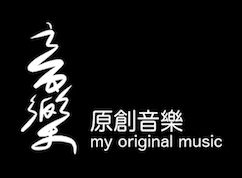
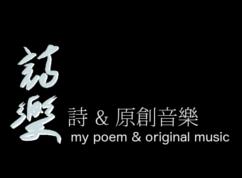
update artworks

Changed region(s): [[0.0289, 0.1124, 0.9545, 0.8708]]

diff --git a/en/artworks.html b/en/artworks.html
@@ -42,8 +42,10 @@
 <h2>Original Music Creating</h2>
 <p class="section">
 <a href="https://www.youtube.com/channel/UCgWz8SBImzRUd5XeOlw0VJg" target="_blank"><img src="../images/original-music.png" class="artworks1" /></a><br>
-I'm an independent singer songwriter, <br>
-some samples, please take a look here:<br>
+<b>Poem &amp; Music</b><br>
+Poem is the soul, and music is the form.<br>
+I'm an independent singer songwriter, I always want to make different background music to match the poems written by myself.
+Some samples, please take a look here:<br>
 <a href="https://www.youtube.com/channel/UCgWz8SBImzRUd5XeOlw0VJg" target="_blank">https://www.youtube.com/channel/UCgWz8SBImzRUd5XeOlw0VJg</a>. 
 </p>
 <p><br></p>
@@ -53,8 +55,10 @@ some samples, please take a look here:<br>
 <p class="section">
 <a href="https://curveart7.blogspot.com" target="_blank"><img src="../images/original-artworks.png" class="artworks2" /></a>
 <br><br><br><br><br><br><br><br><br><br><br><br>
-My personal creative drawing (computer pixel artworks, handmade pixel by pixel with imaging in mind), 
-some sample of my original drawing artworks here:<br>
+<b>Thinking &amp; Drawing Artworks</b><br>
+Thinking is the soul inside, and Drawing is the form.<br>
+My personal creative drawing artworks with imaging in mind without reference or model,
+some sample can be visited here:<br>
 <a href="https://curveart7.blogspot.com" target="_blank">https://curveart7.blogspot.com</a>.
 </p>
 <p><br></p>
@@ -64,13 +68,15 @@ some sample of my original drawing artworks here:<br>
 <p class="section">
 <a href="https://curveart7.blogspot.com" target="_blank"><img src="../images/original-shodo.png" class="artworks" /></a>
 <br><br><br><br><br><br><br><br><br><br><br><br>
+<b>Poem &amp; Kanji Artworks</b><br>
 I'm a Shodo artist, Kanji artworks creator.<br>
+I always want to make different Shodo style for my beautiful poems.<br>
 <a href="https://curveart7.blogspot.com" target="_blank">https://curveart7.blogspot.com</a>.
 </p>
 
-
+<hr>
 <p>I create my artworks without any template or reference!<br>
-Just create everything imaging in mind!<br>
+Just create everything imaging in my mind!<br>
 More info, please visit my account on Twitter: <a href="https://www.twitter.com/tkmrysnb">https://www.twitter.com/tkmrysnb</a>.</p>
 
 
